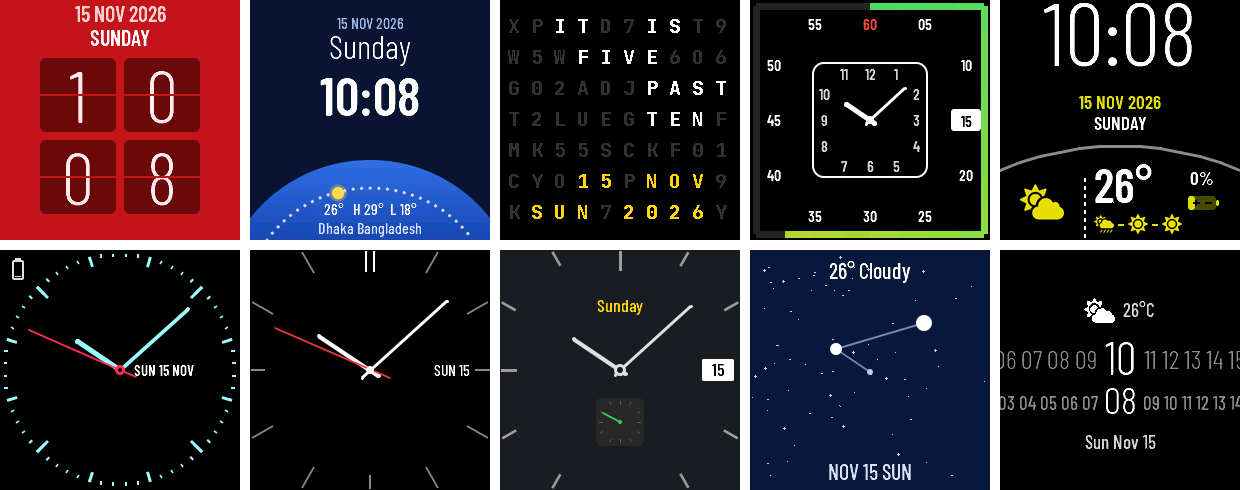
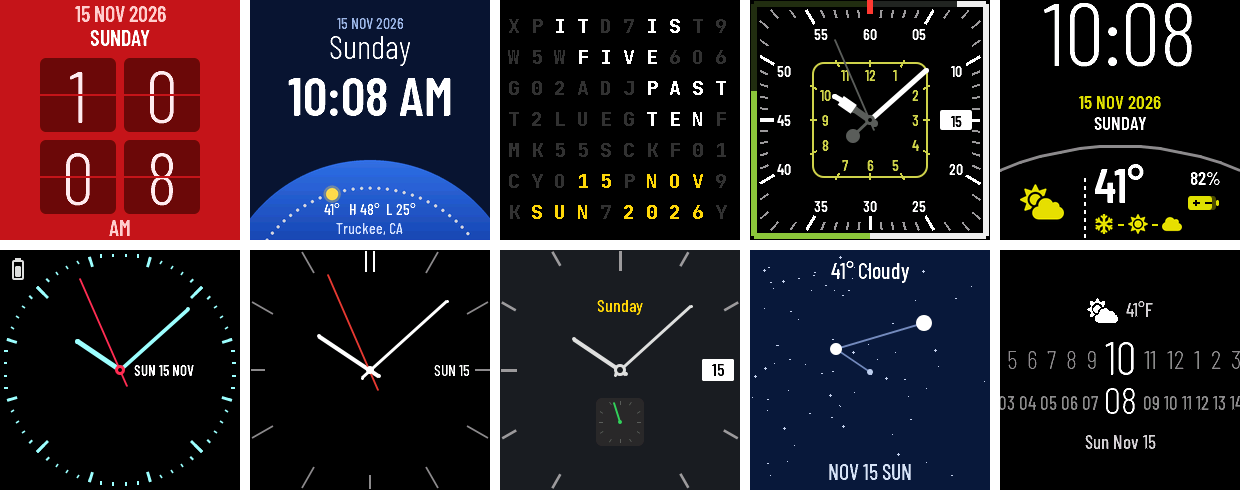
Screenshots in 12-hour time and °F, one per face
- New screenshots (10:08 AM, 12-hour, °F, sample weather for Truckee, CA),
  one 240x240 image per face plus the overview, listed in the manifest so
  InfiniTime Builder can show them.
- Almanac: wider gaps between 12-hour hours so they don't run together.

diff --git a/almanac/WatchFaceAlmanac.cpp b/almanac/WatchFaceAlmanac.cpp
@@ -71,7 +71,9 @@ namespace {
     }
     int n = twoDigits ? snprintf(buf + at, size - at, "%02d", value) : snprintf(buf + at, size - at, "%d", value);
     at += static_cast<size_t>(n > 0 ? n : 0);
-    if (gap && at + 1 < size) {
+    // one space between zero-padded numbers; 12-hour hours (1-12, mixed widths) need two to stay apart
+    const size_t spaces = twoDigits ? 1 : 2;
+    for (size_t i = 0; gap && i < spaces && at + 1 < size; i++) {
       buf[at++] = ' ';
       buf[at] = '\0';
     }

diff --git a/tools/make_manifest.py b/tools/make_manifest.py
@@ -55,6 +55,7 @@ def face(enum: str, name: str, folder: str, description: str, fonts=None, images
         "description": description,
         "header": f"{folder}/WatchFace{enum}.h",
         "sources": [f"{folder}/WatchFace{enum}.cpp"],
+        "screenshot": f"screenshots/{folder}.png",  # shown by InfiniTime Builder
     }
     resources = {}
     if fonts:

diff --git a/README.md b/README.md
@@ -9,8 +9,9 @@ manifest so InfiniTime Builder can add them to your firmware.
 ![All ten faces at 10:08](screenshots/faces.png)
 
 *Top: Tiles, Horizon, Words, Rally, Outlook. Bottom: Glow, Noir, Subdial, Constellation, Almanac.
-Screenshots from the InfiniEmu emulator; the weather and step count are sample data, since the
-emulator has no phone connection or motion sensor.*
+Screenshots from the InfiniEmu emulator at 10:08 AM, with the watch set to 12-hour time and °F. The
+weather (Truckee, CA), step count and battery level are sample data, since the emulator has no phone
+connection or sensors.*
 
 ## The faces
 
